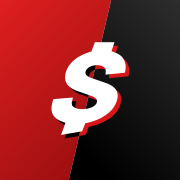
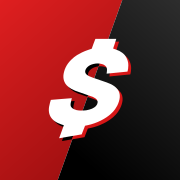
feat(brand): 아이콘을 r4-06(더 둥근 판·큰 $)으로 변경
belie 「다시 보니 06번이 더 좋다」.

Changed region(s): [[0.25, 0.0, 0.75, 1.0]]

diff --git a/app/layout.tsx b/app/layout.tsx
@@ -18,7 +18,7 @@ export const metadata: Metadata = {
   metadataBase: new URL("https://salesptlog.online"),
   title: "세일즈PT 경영일지",
   description: "수강생을 위한 직관적인 영업 현황 기록 · 대시보드",
-  // 아이콘은 Next.js 가 app/icon.svg, app/apple-icon.png 에서 자동 등록 (r4-03 반반 타일).
+  // 아이콘은 Next.js 가 app/icon.svg, app/apple-icon.png 에서 자동 등록 (r4-06 반반 타일).
   // OG 이미지는 app/opengraph-image.tsx 에서 자동 등록 (카톡·페북·트위터 썸네일).
   // manifest 도 app/manifest.ts 에서 자동 주입.
   openGraph: {

diff --git a/app/manifest.ts b/app/manifest.ts
@@ -5,7 +5,7 @@
  *
  * 모바일에서 즐겨찾기 → 홈 추가 시:
  *   - 이름: "세일즈PT 경영일지"
- *   - 아이콘: app/icon.svg + app/apple-icon.png (r4-03 반반 타일)
+ *   - 아이콘: app/icon.svg + app/apple-icon.png (r4-06 반반 타일)
  *   - 시작 URL: /
  *   - display: standalone (네이티브 앱처럼 보임)
  */

diff --git a/docs/worklog.md b/docs/worklog.md
@@ -1,5 +1,5 @@
-## 2026-11-22 · 앱 아이콘·파비콘 r4-03 반반 타일로 교체
-- feat/app-icon-split-tile. belie 확정 「r4-03 반반 + 반전 그림자」(4차 시안). 탭=그림자 없는 둥근 판 SVG, iOS·안드로이드=그림자 있는 PNG, PC 사이드탭 접힘 아이콘도 같은 마크. 옛 글꼴 $ 코드(icon.tsx·apple-icon.tsx) 삭제. [plan](plans/active/app-icon-split-tile.md).
+## 2026-11-22 · 앱 아이콘·파비콘 r4-06 반반 타일로 교체
+- feat/app-icon-split-tile. belie 확정 r4-06 반반 타일(처음 r4-03 → 「06번이 더 좋다」로 변경, 더 둥근 판·큰 $). 탭=그림자 없는 둥근 판 SVG, iOS·안드로이드=그림자 있는 PNG, PC 사이드탭 접힘 아이콘도 같은 마크. 옛 글꼴 $ 코드(icon.tsx·apple-icon.tsx) 삭제. [plan](plans/active/app-icon-split-tile.md).
 
 ## 2026-11-22 · PC 머리줄 한 줄 — 로고·이름을 사이드탭 맨 위로
 - feat/pc-header-one-row. belie 확정(목업 2판): 로고는 늘 사이드탭, 이름은 사이드탭 열림=로고 옆 / 닫힘=배너 탭 이름 앞. PC 학생 화면 머리 줄 숨김(--app-header-height 0), 계정 메뉴·역할 전환 위치 이동. 폰·관리자·트레이너 그대로. [plan](plans/active/pc-header-one-row.md). 앱 아이콘 새 시안은 별도(3차 후보 비교 중).
